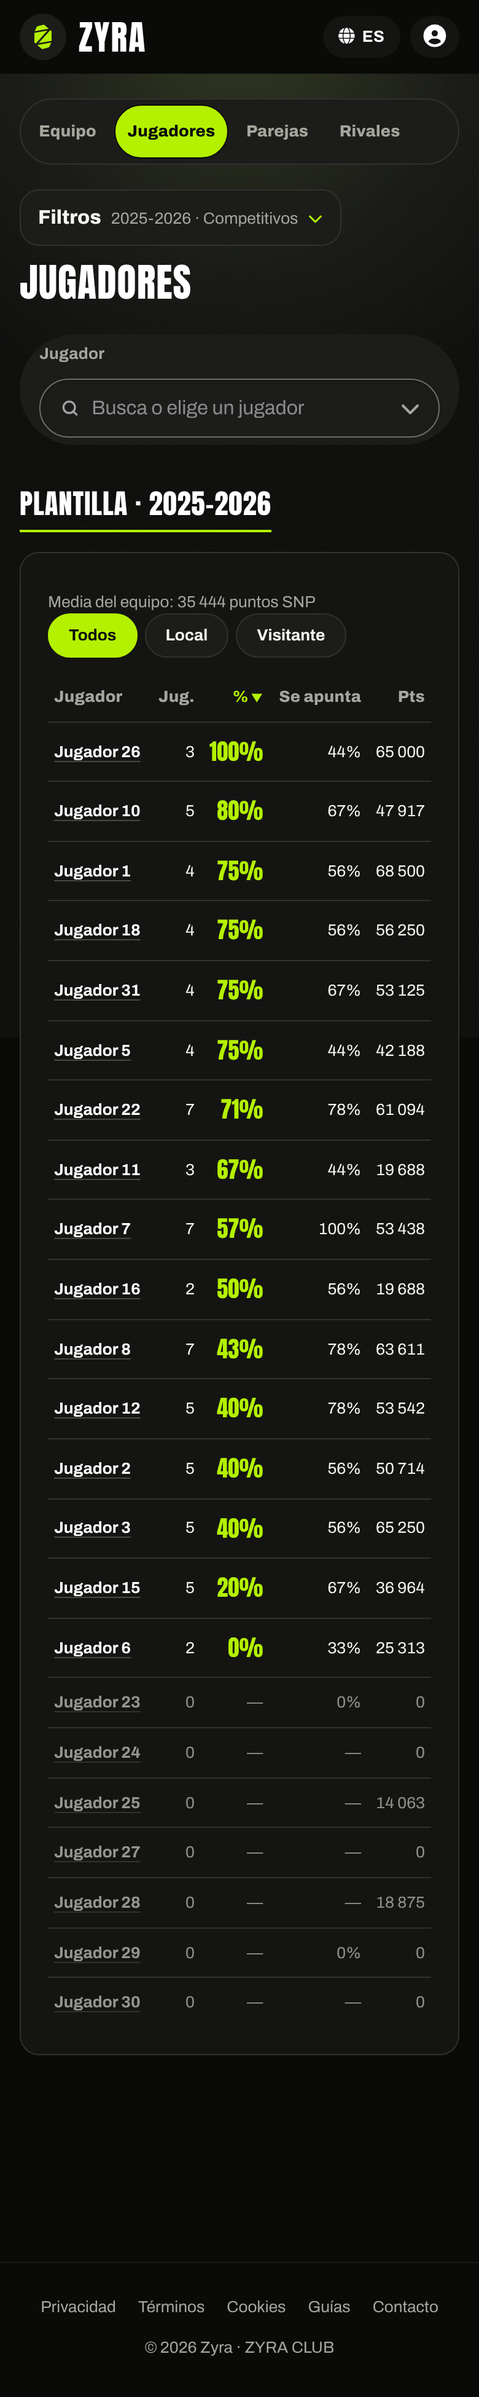
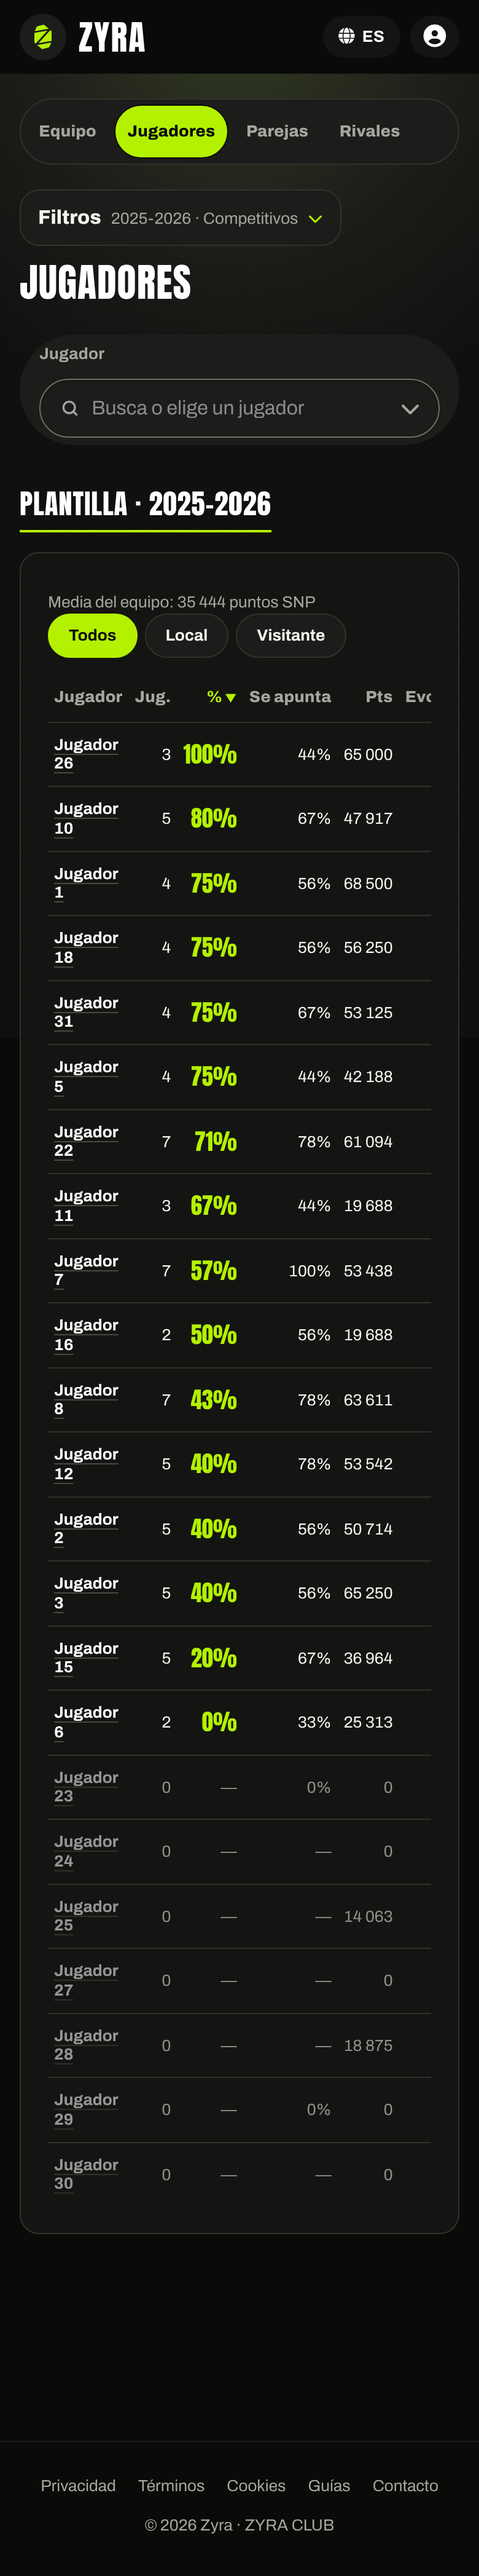
LAPI: capturas de un equipo LAPI, dos guiones con LAPI visible y gancho en una línea cuando cabe
- scripts/capturar-lapi.py: club LAPI de demostración y 10 pantallas con sufijo -lapi.
- Recapturadas con el main actual de Zyra las pantallas que habían cambiado.
- guiones lapi-crea-jornada y lapi-puntos-de-liga, con LAPI en el texto, la búsqueda y la descripción.
- El gancho ocupa una sola línea si cabe a 100 px o más.

Claude-Session: https://claude.ai/code/session_01LvvCQ54CjTH1WUHdk7m3q2

diff --git a/src/Feature.tsx b/src/Feature.tsx
@@ -62,7 +62,7 @@ export const Feature: React.FC<VideoData> = ({hook, title, src, imgW, scroll, bo
   const hookW = hook[0].split(/\s+/).filter(Boolean);
   const corte = hookW.length < 2 ? 0 : Array.from({length: hookW.length - 1}, (_, i) => i + 1).reduce((m, i) => (Math.max(hookW.slice(0, i).join(' ').length, hookW.slice(i).join(' ').length) < Math.max(hookW.slice(0, m).join(' ').length, hookW.slice(m).join(' ').length) ? i : m), 1);
   const anchoHook = 1080 - 2 * SAFE.side - 90;
-  const hookL1 = corte && cabeTitular(hook[0], 200, anchoHook) < 130 ? [hookW.slice(0, corte).join(' '), hookW.slice(corte).join(' ')] : [hook[0]];
+  const hookL1 = corte && cabeTitular(hook[0], 200, anchoHook) < 100 ? [hookW.slice(0, corte).join(' '), hookW.slice(corte).join(' ')] : [hook[0]];
   const hookSize = Math.min(...hookL1.map((h) => cabeTitular(h, 200, anchoHook)));
   const titleSize = cabeTitular(title, 96, 920);
   const subLen = limpio(subs[subIdx]).length;

diff --git a/scripts/capturar-lapi.py b/scripts/capturar-lapi.py
@@ -1,0 +1,188 @@
+"""Captura las pantallas de un equipo de la LAPI en la web de Zyra y las añade al catálogo de capturas (sufijo -lapi).
+
+Las capturas de capturar-app.py son de un equipo SNP (puntos SNP, 5 partidos, enfrentamientos). Un equipo LAPI se ve distinto:
+sin puntos SNP, 3 partidos de 1 punto, tipos Liga, Playoffs y Fase final, jornada y puntos de liga (4, 3 o 1).
+
+    cd /ruta/a/zyra-videos
+    /ruta/a/Zyra/.venv/bin/python scripts/capturar-lapi.py --zyra /ruta/a/Zyra
+
+Igual que capturar-app.py: base SQLite temporal, datos anonimizados (ZYRA CLUB, JUGADOR n, EQUIPO RIVAL n), móvil de 390 px a ×2.
+Usa CHROME=/ruta/a/chrome si no tienes el navegador de Playwright.
+"""
+import argparse
+import datetime
+import json
+import os
+import socket
+import subprocess
+import sys
+import tempfile
+import time
+import urllib.request
+from pathlib import Path
+
+AQUI = Path(__file__).resolve().parent.parent
+ap = argparse.ArgumentParser()
+ap.add_argument("--zyra", required=True, help="carpeta del proyecto Zyra (donde está manage.py)")
+ap.add_argument("--salida", default=str(AQUI / "capturas-app"))
+ap.add_argument("--sin-catalogo", action="store_true", help="solo hacer las capturas, sin tocar capturas.json")
+args = ap.parse_args()
+ZYRA = Path(args.zyra).resolve()
+SALIDA = Path(args.salida)
+if not (ZYRA / "manage.py").exists():
+    sys.exit(f"No encuentro manage.py en {ZYRA}")
+
+tmp = Path(tempfile.mkdtemp(prefix="zyra-lapi-"))
+os.environ.update({
+    "DJANGO_DEBUG": "True", "DATABASE_URL": f"sqlite:///{(tmp / 'demo.sqlite3').as_posix()}", "RATE_LIMITS_ENABLED": "False",
+    "DJANGO_SETTINGS_MODULE": "zyra.settings",
+})
+os.chdir(ZYRA)
+sys.path.insert(0, str(ZYRA))
+
+print("1/4 Base de datos de demostración…")
+subprocess.run([sys.executable, "manage.py", "migrate", "-v0"], cwd=ZYRA, check=True, env=os.environ, stdout=subprocess.DEVNULL)
+
+print("2/4 Equipo LAPI con datos inventados…")
+import django  # noqa: E402
+
+django.setup()
+from django.contrib.auth import get_user_model  # noqa: E402
+from django.test import Client  # noqa: E402
+from call.models import Call  # noqa: E402
+from match.models import Game, Match, Result  # noqa: E402
+from core.services import create_club  # noqa: E402
+from players.models import Player  # noqa: E402
+from team.models import Team  # noqa: E402
+
+User = get_user_model()
+user = User.objects.create_user("demo", email="demo@example.com")
+user.set_unusable_password()
+user.save()
+club = create_club("ZYRA CLUB", "", user, competition="lapi")
+propio = club.own_team
+propio.division = "lapi_2"
+propio.save()
+posiciones = [v for v, _l in Player.POSITIONS if v != "NONE"] or ["NONE"]
+manos = [v for v, _l in Player.HAND if v != "NONE"] or ["NONE"]
+jugadores = [
+    Player.objects.create(club=club, team=propio, name=f"JUGADOR {i + 1}", last_name="", position=posiciones[i % len(posiciones)],
+                          skillfull_hand=manos[i % len(manos)], joined_season="2026-2027")
+    for i in range(9)
+]
+rivales = [Team.objects.create(club=club, name=f"EQUIPO RIVAL {i + 1}", location="", in_group=True, division=d)
+           for i, d in enumerate(["lapi_2", "lapi_2", "lapi_2", "lapi_2"])]
+PAREJAS = [(0, 1), (2, 3), (4, 5), (6, 7), (0, 8), (1, 2), (3, 4), (5, 6)]
+SETS_GANA = [(6, 3, 6, 4), (6, 2, 6, 3), (7, 5, 6, 4), (6, 4, 7, 6)]
+SETS_PIERDE = [(3, 6, 4, 6), (2, 6, 4, 6), (5, 7, 3, 6), (4, 6, 6, 7)]
+dia = datetime.date(2026, 10, 3)
+
+
+def partido(rival, tipo, dias, own, rv, jornada=None, cerrado=True):
+    """Enfrentamiento con ``own``-``rv`` partidos ganados (3 en total), parejas que rotan y resultados por sets."""
+    m = Match.objects.create(club=club, local=propio, visiting=rival, start_date=dia + datetime.timedelta(days=dias), match_type=tipo,
+                             round_number=jornada, draft_mode=True)
+    if not cerrado:
+        return m
+    base = len(Match.objects.filter(club=club)) * 3
+    for n in range(1, 4):
+        a, b = PAREJAS[(base + n) % len(PAREJAS)]
+        gana = n <= own
+        g = Game.objects.create(match=m, n_game=n, score=1, draft_mode=False, winner="Local" if gana else "Visitante",
+                                player_1_local=jugadores[a], player_2_local=jugadores[b])
+        s = (SETS_GANA if gana else SETS_PIERDE)[(base + n) % 4]
+        Result.objects.create(game=g, result="Victoria Local" if gana else "Victoria Visitante", set1_local=s[0], set1_visiting=s[1],
+                              set2_local=s[2], set2_visiting=s[3], draft_mode=False)
+    llamada = Call.objects.create(match=m, draft_mode=False)  # convocatoria: los jugadores que han jugado
+    llamada.players.set({jugadores[i] for n in range(1, 4) for i in PAREJAS[(base + n) % len(PAREJAS)]})
+    m.result_points = f"{own}/{rv}"
+    m.result = "Victoria Local" if own > rv else "Victoria Visitante"
+    m.draft_mode = False
+    m.save()
+    return m
+
+
+liga = [(0, 3, 0), (7, 2, 1), (14, 3, 0), (21, 1, 2), (28, 2, 1), (35, 3, 0)]
+for k, (d, o, r) in enumerate(liga):
+    partido(rivales[k % 4], "liga", d, o, r, jornada=k + 1)
+cerrado = Match.objects.filter(club=club, draft_mode=False).order_by("-start_date").first()
+borrador = partido(rivales[1], "liga", 42, 0, 0, jornada=7, cerrado=False)
+print(f"   {len(jugadores)} jugadores, {len(rivales)} rivales, {Match.objects.filter(club=club).count()} enfrentamientos LAPI.")
+
+cliente = Client()
+cliente.force_login(user)
+cookie = cliente.cookies["sessionid"].value
+pareja = (jugadores[0], jugadores[1])
+TEMP = "?season=2026-2027"
+DESCRIPCIONES = {
+    "inicio-club-lapi": "Configuración del club ZYRA CLUB de la liga LAPI: botones Invitar, Crear rival, Nuevo jugador y Crear enfrentamiento, y tarjetas de Miembros e invitaciones y Datos del equipo",
+    "jugadores-lapi": "Plantilla de un equipo de la liga LAPI: buscador, orden por nombre, vista en cuadrícula o lista; cada tarjeta muestra posición y mano del jugador (sin puntos SNP)",
+    "equipos-lapi": "Equipos rivales de la liga LAPI con buscador, interruptor para ver solo los de mi grupo y tarjetas con escudo y etiqueta En tu grupo",
+    "nuevo-enfrentamiento-lapi": "Formulario Crear enfrentamiento de la liga LAPI: el tipo se elige entre Liga, Playoffs y Fase final, con jornada, rival, en casa o fuera, fecha, hora y lugar",
+    "enfrentamientos-lapi": "Enfrentamientos de la liga LAPI: lista de jornadas con rival, tipo Liga, resultado de partidos (3-0, 2-1, 1-2) y V o D, con vista Lista o Calendario y filtros",
+    "enfrentamiento-borrador-lapi": "Enfrentamiento de liga LAPI por convocar: marcador VS, progreso de los pasos (convocatoria, parejas, resultados y acta) y botón Siguiente: crear convocatoria",
+    "enfrentamiento-cerrado-lapi": "Enfrentamiento de liga LAPI cerrado: resultado por partidos (tres partidos de un punto), victoria, botones Compartir resultado y Ver estadísticas, y la convocatoria",
+    "estadisticas-equipo-lapi": "Estadísticas de un equipo de la liga LAPI: balance de la temporada, puntos de liga (4 por ganar 3-0, 3 por ganar 2-1, 1 por perder), forma reciente y racha, con pestañas Equipo, Jugadores, Parejas y Rivales",
+    "estadisticas-jugador-lapi": "Estadísticas de jugadores de la liga LAPI: buscador y tabla de la plantilla con partidos y porcentaje de victorias, sin puntos SNP",
+    "estadisticas-pareja-lapi": "Estadísticas por parejas de la liga LAPI: dos buscadores de jugador, botón Ver pareja y la lista de todas las parejas con partidos, V-D y porcentaje de victorias",
+}
+PAGINAS = [
+    ("inicio-club-lapi", "/core/club/"),
+    ("jugadores-lapi", "/players/list_players"),
+    ("equipos-lapi", "/team/list_teams"),
+    ("nuevo-enfrentamiento-lapi", "/match/create_match"),
+    ("enfrentamientos-lapi", "/match/list_match" + TEMP),
+    ("enfrentamiento-borrador-lapi", f"/match/call_for_match/{borrador.public_id}/"),
+    ("enfrentamiento-cerrado-lapi", f"/match/call_for_match/{cerrado.public_id}/"),
+    ("estadisticas-equipo-lapi", "/data_analyse/team_statistics" + TEMP),
+    ("estadisticas-jugador-lapi", "/data_analyse/player_statistics" + TEMP),
+    ("estadisticas-pareja-lapi", "/data_analyse/pair_statistics" + TEMP),
+]
+
+print("3/4 Capturando…")
+s = socket.socket()
+s.bind(("127.0.0.1", 0))
+puerto = s.getsockname()[1]
+s.close()
+base_url = f"http://127.0.0.1:{puerto}"
+servidor = subprocess.Popen([sys.executable, "manage.py", "runserver", f"127.0.0.1:{puerto}", "--noreload"], cwd=ZYRA, env=os.environ,
+                            stdout=subprocess.DEVNULL, stderr=subprocess.DEVNULL)
+SALIDA.mkdir(parents=True, exist_ok=True)
+hechas = []
+try:
+    for _ in range(60):
+        try:
+            urllib.request.urlopen(base_url + "/healthz/", timeout=2)
+            break
+        except Exception:
+            time.sleep(1)
+    else:
+        sys.exit("El servidor no arrancó.")
+    from playwright.sync_api import sync_playwright
+
+    with sync_playwright() as pw:
+        navegador = pw.chromium.launch(executable_path=os.environ.get("CHROME") or None)
+        ctx = navegador.new_context(viewport={"width": 390, "height": 844}, device_scale_factor=2, is_mobile=True, has_touch=True, locale="es-ES")
+        ctx.add_cookies([{"name": "sessionid", "value": cookie, "url": base_url}])
+        pagina = ctx.new_page()
+        for nombre, ruta in PAGINAS:
+            r = pagina.goto(base_url + ruta, wait_until="networkidle")
+            if not r or r.status >= 400:
+                print(f"   ✖ {nombre}: HTTP {r.status if r else '?'}")
+                continue
+            pagina.add_style_tag(content="*{animation:none!important;transition:none!important}.z-bottom-nav{display:none!important}")
+            pagina.wait_for_timeout(400)
+            destino = SALIDA / f"{nombre}.png"
+            pagina.screenshot(path=str(destino), full_page=True)
+            hechas.append(destino)
+            print(f"   ✓ {nombre}")
+        navegador.close()
+finally:
+    servidor.terminate()
+
+print("4/4 Catálogo…")
+if hechas and not args.sin_catalogo:
+    descs = tmp / "descripciones.json"
+    descs.write_text(json.dumps({f"{n}.png": d for n, d in DESCRIPCIONES.items()}, ensure_ascii=False), encoding="utf-8")
+    subprocess.run(["node", "scripts/captura.mjs", *map(str, hechas), "--descs", str(descs)], cwd=AQUI, check=True)
+print(f"Listo: {len(hechas)} capturas en {SALIDA}. Mira las imágenes antes de fiarte de las descripciones de capturas.json.")

diff --git a/README.md b/README.md
@@ -156,6 +156,10 @@ python scripts/capturar-app.py --zyra C:\ruta\a\Zyra
 
 Sin tocar tu base de datos ni el repo de Zyra: crea una SQLite temporal, carga `populate_db.py`, la **anonimiza** (club «ZYRA CLUB», jugadores «JUGADOR n», rivales «EQUIPO RIVAL n», sin escudos ni lugares), arranca el servidor en local, entra como capitán y hace una captura de móvil (390 px ×2) de unas 19 pantallas: inicio, jugadores, ficha, plantilla, equipos, enfrentamientos (borrador y cerrado), las cuatro estadísticas, miembros y perfil. Deja los PNG en `capturas-app/` (ignorado por git) y en `public/ui/`, con su descripción en `capturas.json`. Cuando cambie la interfaz, vuelve a ejecutarlo. Si añades una pantalla nueva a la app, añádela a la lista `PAGINAS` y a `DESCRIPCIONES` del script. En pantallas largas solo se recorre el principio para que el vídeo no vaya a toda velocidad.
 
+### Capturas de un equipo LAPI
+
+Un equipo LAPI se ve distinto al SNP (sin puntos SNP, 3 partidos de 1 punto, tipos Liga, Playoffs y Fase final, jornada y puntos de liga). `scripts/capturar-lapi.py` crea un club LAPI de demostración (ZYRA CLUB, JUGADOR n, EQUIPO RIVAL n) y añade 10 pantallas al catálogo con el sufijo `-lapi`: `/ruta/a/Zyra/.venv/bin/python scripts/capturar-lapi.py --zyra /ruta/a/Zyra`. Los vídeos que hablan de la LAPI deben usar esas capturas, no las de SNP. Ejemplos: `guiones/lapi-crea-jornada.json` y `guiones/lapi-puntos-de-liga.json` (sin voz: grábala desde la app).
+
 ### Error 402 de ElevenLabs y progreso del render
 
 **Error 402 «paid_plan_required»:** el plan gratuito de ElevenLabs no puede usar por API las voces de la biblioteca. Lista las de tu cuenta con `node scripts/voz.mjs --voces` y copia el ID de una marcada como `★ premade` en `ELEVENLABS_VOICE_ID` (o pasa a un plan de pago para usar cualquier voz). Comprueba también que la licencia de la voz permita el uso que le des.
